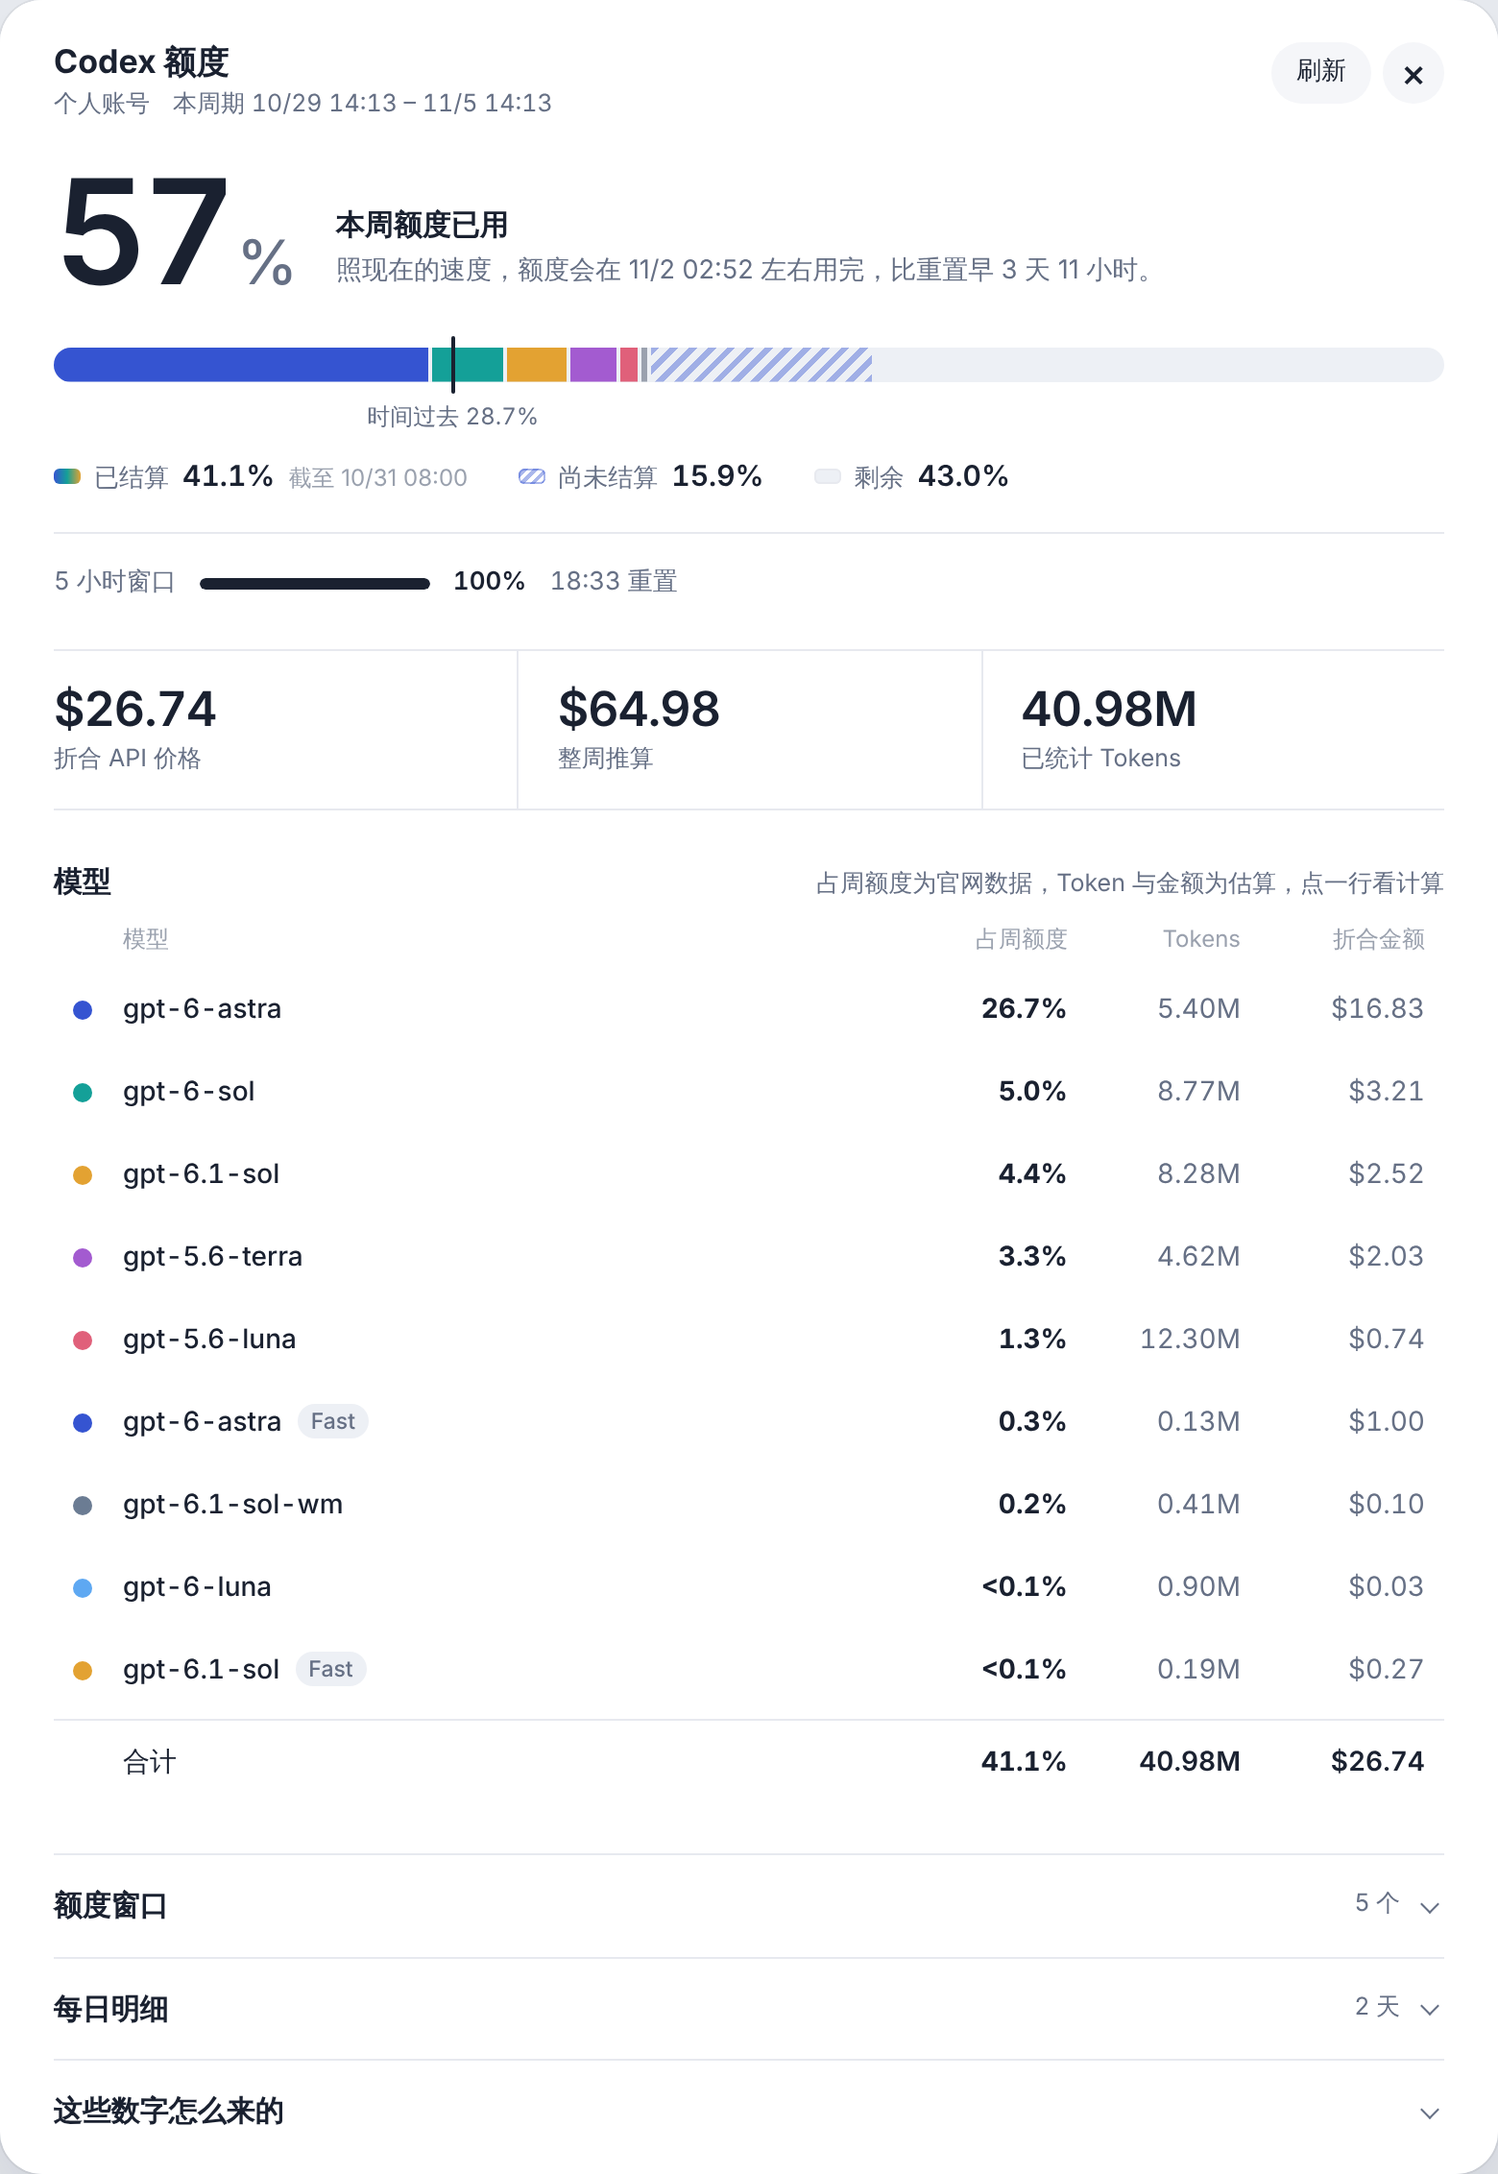
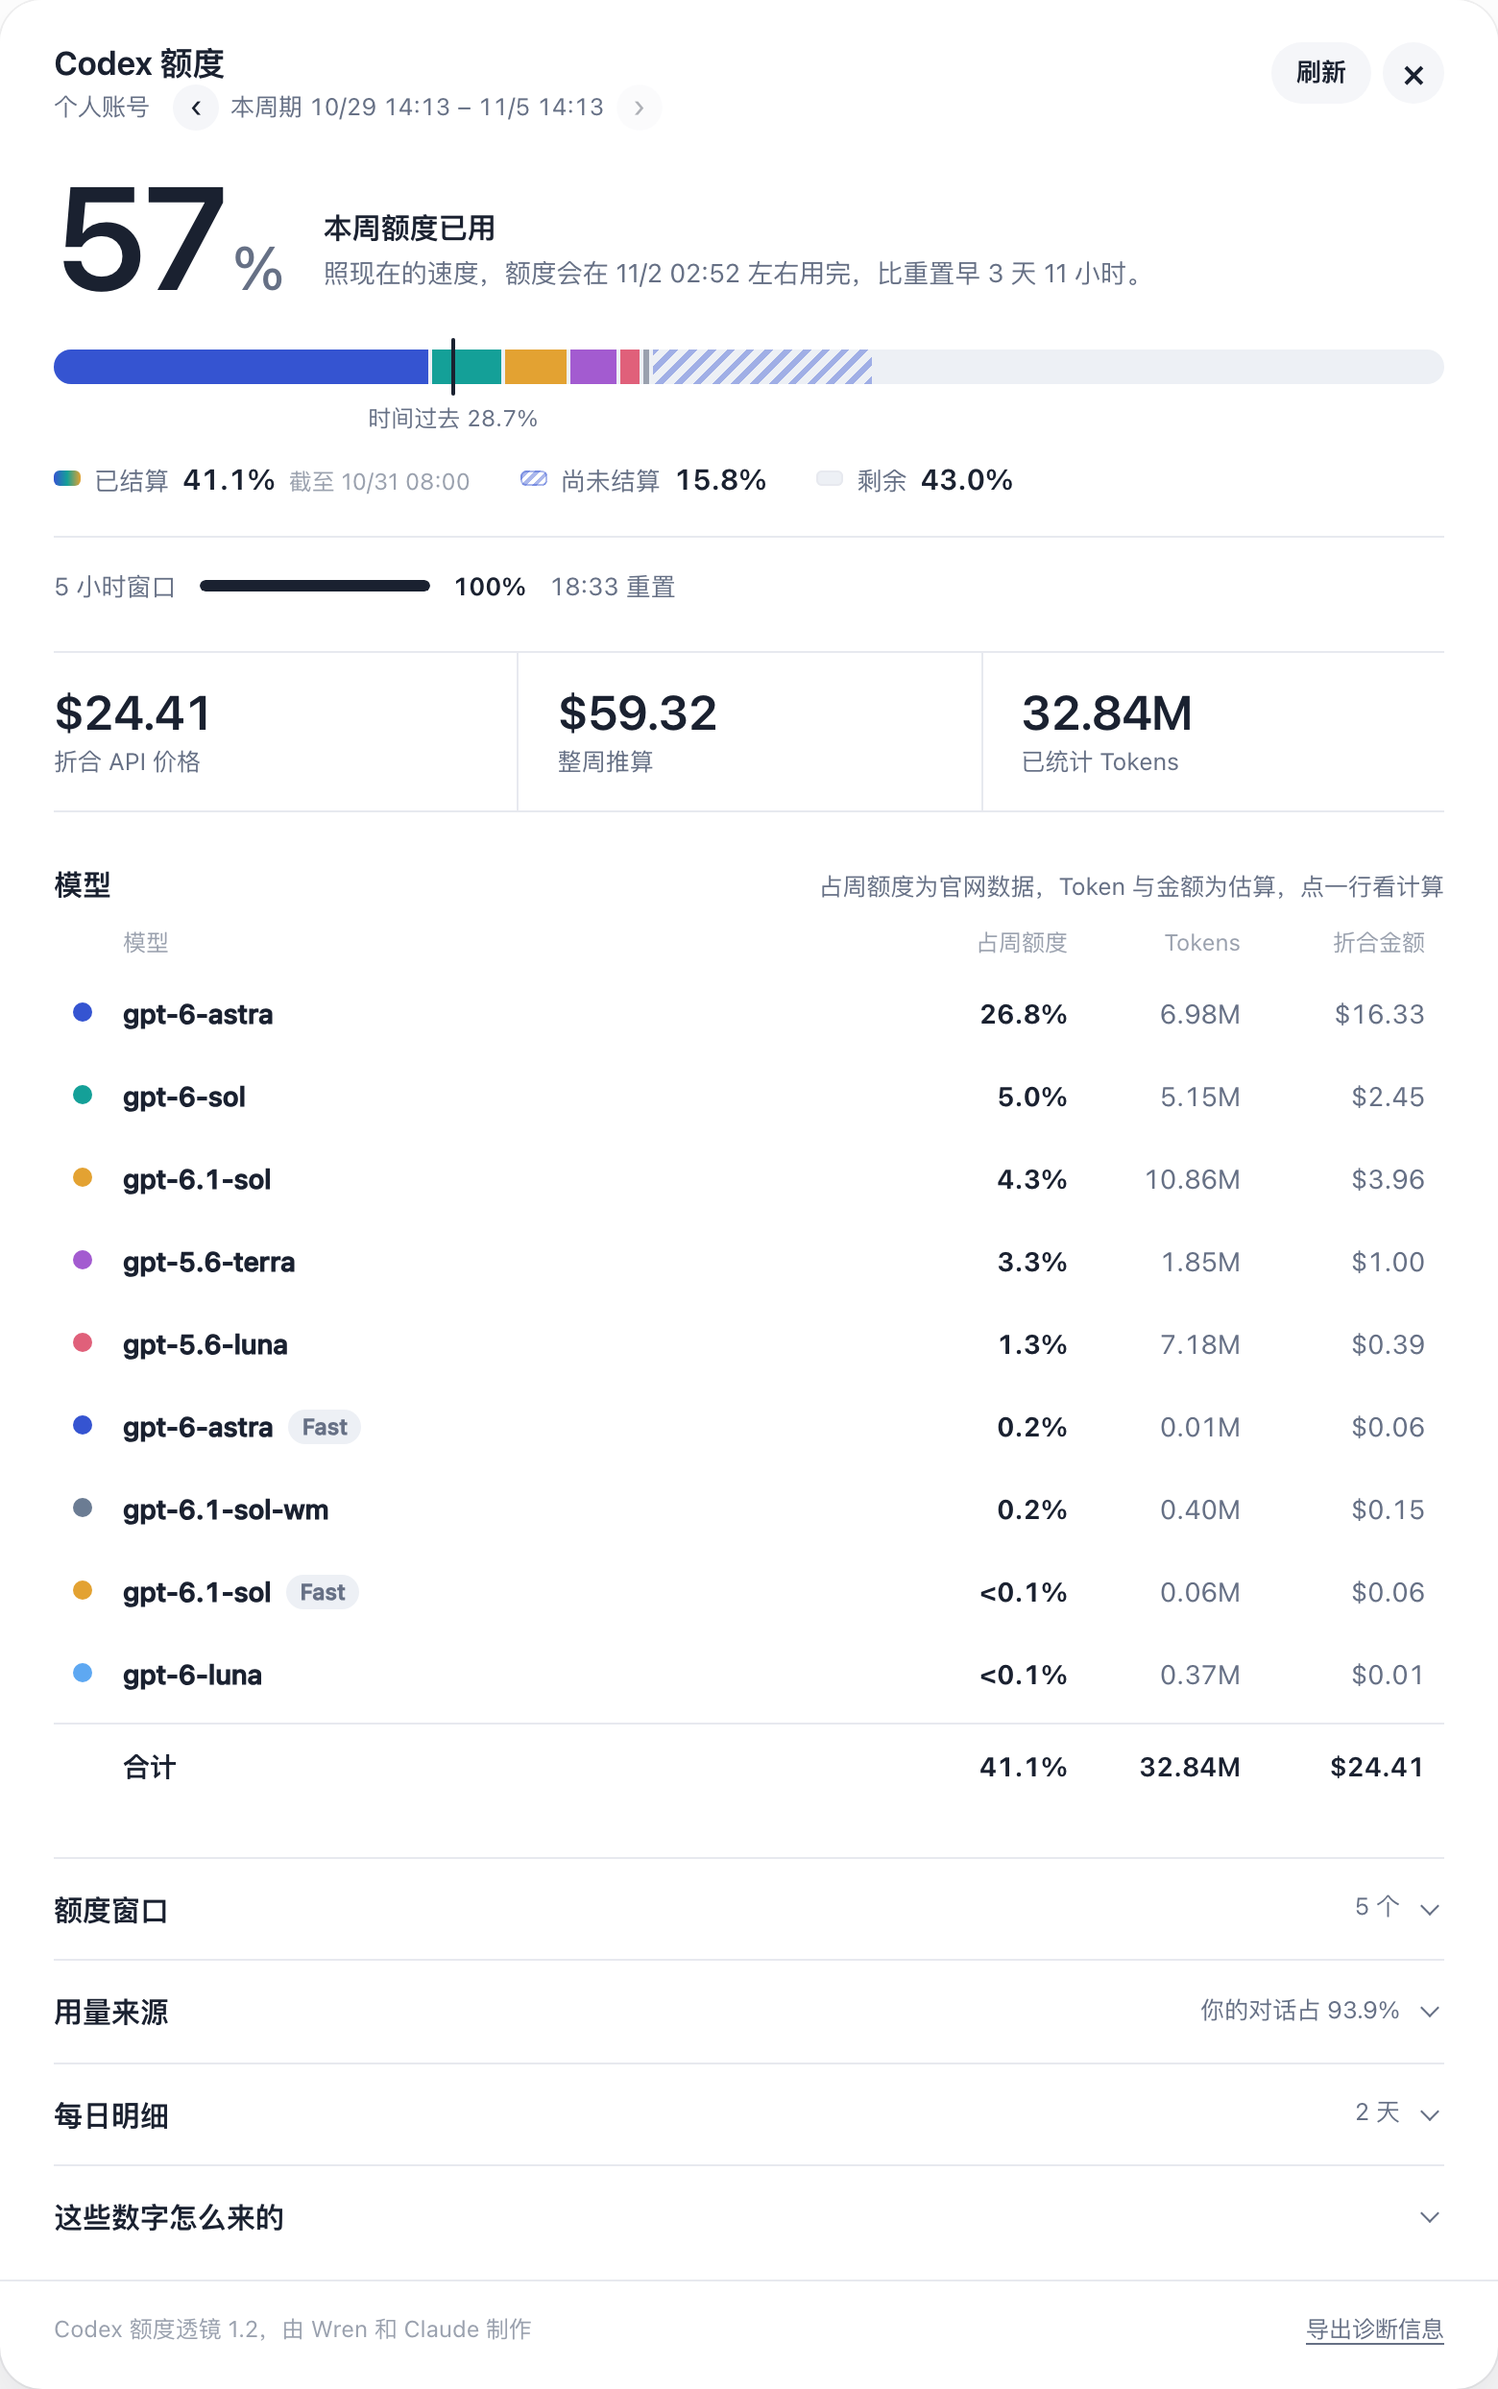
v1.2：按周期查看，支持额度重置卡
- 用 ‹ › 切换过去 30 天里的每个周期，被重置卡提前结束的周期单独显示，标「提前重置」
- 跨两个周期的日子：已结算的按官网 5 小时窗口的用量拆，还没结算的估算并标「大约」
- 过去的周期结束得比官网结算晚时，估算还没结算的部分
- README：补充按周期查看、跨周期日子的拆法和用到的接口；更新截图

diff --git a/codex-quota-lens.user.js b/codex-quota-lens.user.js
@@ -1,7 +1,7 @@
 // ==UserScript==
 // @name         Codex 额度透镜
 // @namespace    codex-quota-lens
-// @version      1.1
+// @version      1.2
 // @description  在 ChatGPT 用量页查看 Codex 周额度：实时与已结算用量、用量节奏、各模型与来源占比，以及折合 API 价格的估算。
 // @author       Wren, Claude
 // @match        https://chatgpt.com/*
@@ -21,7 +21,7 @@
   if (window.__codexQuotaLens) return;
   window.__codexQuotaLens = true;
 
-  const VERSION = "1.1";
+  const VERSION = "1.2";
   const TARGET_PATHS = ["/settings/usage", "/codex/cloud/settings/analytics"];
   const DAY_MS = 86400000;
   const WEEK_SECONDS = 604800;

diff --git a/README.md b/README.md
@@ -13,6 +13,7 @@
 - **用量节奏**：额度条上标出本周时间已经过去多少，并按当前速度估算额度什么时候用完。
 - **各模型占周额度**：直接取官网「套餐用量历史」的数据，同一模型的 Standard 与 Fast 分开列。
 - **折合 API 价格**：按 OpenAI API 公开价格估算已用部分值多少钱，并推算整周。点任意模型可以看到计算过程。
+- **按周期查看**：用 ‹ › 切换过去 30 天里的每个周期，看每周用了多少、花在哪些模型上。用额度重置卡提前结束的周期会单独列出，标「提前重置」。
 - **更多细节**：5 小时窗口、历史额度窗口、用量来源（包括记忆整理这类后台任务）、每日明细。
 - 支持深色模式，手机上也能正常查看。
 
@@ -41,10 +42,12 @@
 | 接口 | 用途 |
 | --- | --- |
 | `/backend-api/wham/usage` | 实时已用比例、窗口重置时间 |
-| `/backend-api/wham/usage/plan_limit_history` | 官网「套餐用量历史」：已结算比例、各模型与来源的占比 |
+| `/backend-api/wham/accounts/check` | 账号 ID，查询官网用量历史时要带上 |
+| `/backend-api/wham/usage/plan_limit_history` | 官网「套餐用量历史」（最近 30 天）：每个周期的起止、已结算比例、各模型与来源的占比 |
 | `/backend-api/wham/usage/daily-token-usage-breakdown` | 每天各模型的相对消耗 |
 | `/backend-api/wham/analytics/daily-workspace-usage-counts` | 每天的 Token 合计 |
 | `/backend-api/wham/usage/daily-workspace-user-token-usage-breakdown` | Team 工作区的模型级 Token |
+| `/backend-api/wham/rate-limit-reset-credits` | 只在导出诊断信息时请求，记录手上的额度重置卡 |
 
 这些都是 ChatGPT 网页自己使用的非公开接口，没有官方文档，随时可能变化。
 
@@ -53,6 +56,8 @@
 - 个人账号的每日统计只有 Token 合计。一天里用了多个模型时，脚本按各模型的费率把合计反推分配到每个模型，所以模型级的 Token 和金额是估算值。
 - 金额按 OpenAI API 标准价折算，Fast 按 2.5 倍、Ultrafast 按 8 倍（Codex 订阅额度口径）。它只是等价参考，不是账单。价格表在脚本开头的 `PRICES` 里，来源是 [OpenAI API 定价](https://developers.openai.com/api/docs/pricing) 和 [Codex 速度说明](https://learn.chatgpt.com/docs/agent-configuration/speed)。
 - 整周推算 = 已结算时段的金额 ÷ 同一时段的已用比例。
+- 每日明细按 UTC 日统计，一天可能跨两个周期，比如用了重置卡的那天。已结算的部分按官网 5 小时窗口的用量拆开；还没结算的只能估算，界面上标「大约」或 ≈，等官网结算后会换成准确的数。
+- 每日明细最多查 30 天。最早那个周期如果开头超出了这个范围，它的 Token 和金额不全，不做推算。
 
 ## 隐私
 
